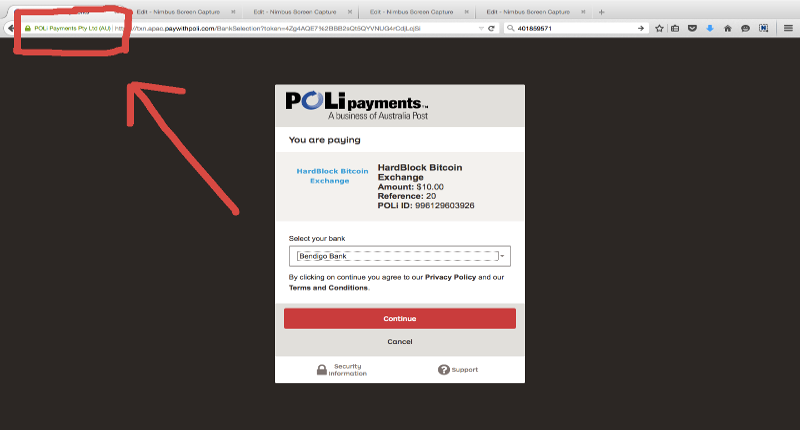
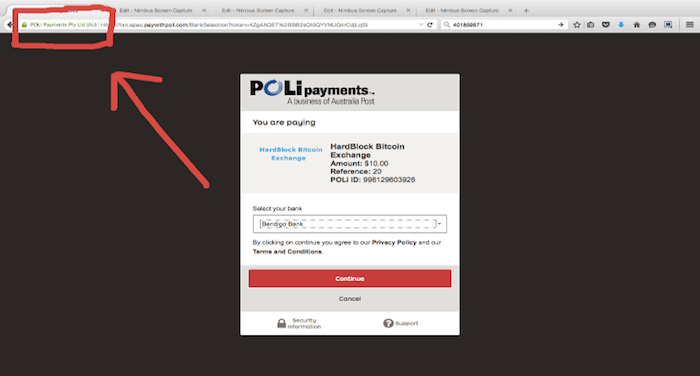
Image Optimization

diff --git a/_posts/2016-10-21-buying-bitcoin-using-poli-in-australia.md b/_posts/2016-10-21-buying-bitcoin-using-poli-in-australia.md
@@ -11,6 +11,8 @@ toc:
   why: Why Is It Used
   walkthrough: Buying Bitcoin With POLi
 ---
+{% include page-toc.html %}
+
 <p id="whatis"><a href="https://www.polipayments.com/">POLi payments</a> is an Australian payment processor owned by Australia Post. It is commonly accepted by Australian Bitcoin exchanges as a way to send money to the exchanges and buy Bitcoin.</p>
 
 <p>Examples of other businesses that accept POLi are Twitch.tv, Skype, Jetstar, AirAsia etc.</p>
@@ -43,27 +45,27 @@ toc:
 
 <p>First you will need to create an account and confirm your email.</p>
 
-<img src="/images/poli-guide-1.png" width="800" height="430" alt="hardblock sign up">
+<img src="/images/poli-guide-1.png" width="700" height="376" alt="hardblock sign up">
 
 <p>After clicking on Fund Deposit you will be taken to the verification page. You will need to provide your phone number and ID documents. ID Verification should take less than a day.</p>
-<img src="/images/poli-guide-4.png" width="410" height="230" alt="hardblock verify phone">
-<img src="/images/poli-guide-5.png" width="410" height="230" alt="hardblock verify id">
+<img src="/images/poli-guide-4.png" width="700" height="393" alt="hardblock verify phone">
+<img src="/images/poli-guide-5.png" width="700" height="393" alt="hardblock verify id">
 
 <p>When you are verified you can go to the Fund Deposit page. Enter the amount of Australian Dollars you want to fund you HardBlock account with and click Pay With POLi.</p>
 
-<img src="/images/poli-guide-6.png" width="800" height="430" alt="hardblock cash transfer">
+<img src="/images/poli-guide-6.png" width="700" height="376" alt="hardblock cash transfer">
 <p>You should now be redirected to a POLi domain, you can check the address bar at top. It will say POLi Payments Ptd Ltd (AU) in green. Choose your bank, POLi works with most Australian banks.</p>
-<img src="/images/poli-guide-7.png" width="800" height="430" alt="poli pay">
+<img src="/images/poli-guide-7.png" width="700" height="376" alt="poli pay">
 
 <p>To confirm your transfer you need to login with your bank credentials. The credentials are never seen by the Bitcoin exchange. POLi does not store them it simply makes a call to the banks API to create a net bank transfer. </p>
-<img src="/images/poli-guide-8.png" width="800" height="430" alt="poli pay 2">
+<img src="/images/poli-guide-8.png" width="700" height="376" alt="poli pay 2">
 
 <p>Now you will need to do a final confirmation of the transfer. Its likely your bank will also require an sms confirmation. After your final confirmation your fund transfer is complete. You will now have to wait around an hour for your account to be credited with Australian Dollars.</p>
-<img src="/images/poli-guide-9.png" width="800" height="430" alt="poli completed">
+<img src="/images/poli-guide-9.png" width="700" height="376" alt="poli completed">
 
 <p> Once your account is credited click the Buy / Sell button. Enter the amount of Dollars you want to use to buy Bitcoin and press buy. You will then be shown a confirmation page showing your buy order. Press Confirm and you will instantly receive your Bitcoins.</p>
-<img src="/images/poli-guide-10.png" width="800" height="430" alt="hardblock buy bitcoin">
+<img src="/images/poli-guide-10.png" width="700" height="376" alt="hardblock buy bitcoin">
 
-<p>Finally, it is never a good idea to keep your Bitcoins on any centralised exchange. Get a <a href="https://www.weusecoins.com/en/find-the-best-bitcoin-wallet/">desktop or mobile wallet</a> for smaller amounts or use paper or cold storage for larger amounts. Send the Bitcoin from the exchange to your wallet by providing your wallets address, and clicking send.</p>
+<p>Finally, it is never a good idea to keep your Bitcoins on any centralised exchange. Get a <a href="/en/find-the-best-bitcoin-wallet/">desktop or mobile wallet</a> for smaller amounts or use paper or cold storage for larger amounts. Send the Bitcoin from the exchange to your wallet by providing your wallets address, and clicking send.</p>
 
-<img src="/images/poli-guide-12.png" width="800" height="430" alt="hardblock send bitcoin">
+<img src="/images/poli-guide-12.png" width="700" height="376" alt="hardblock send bitcoin">
